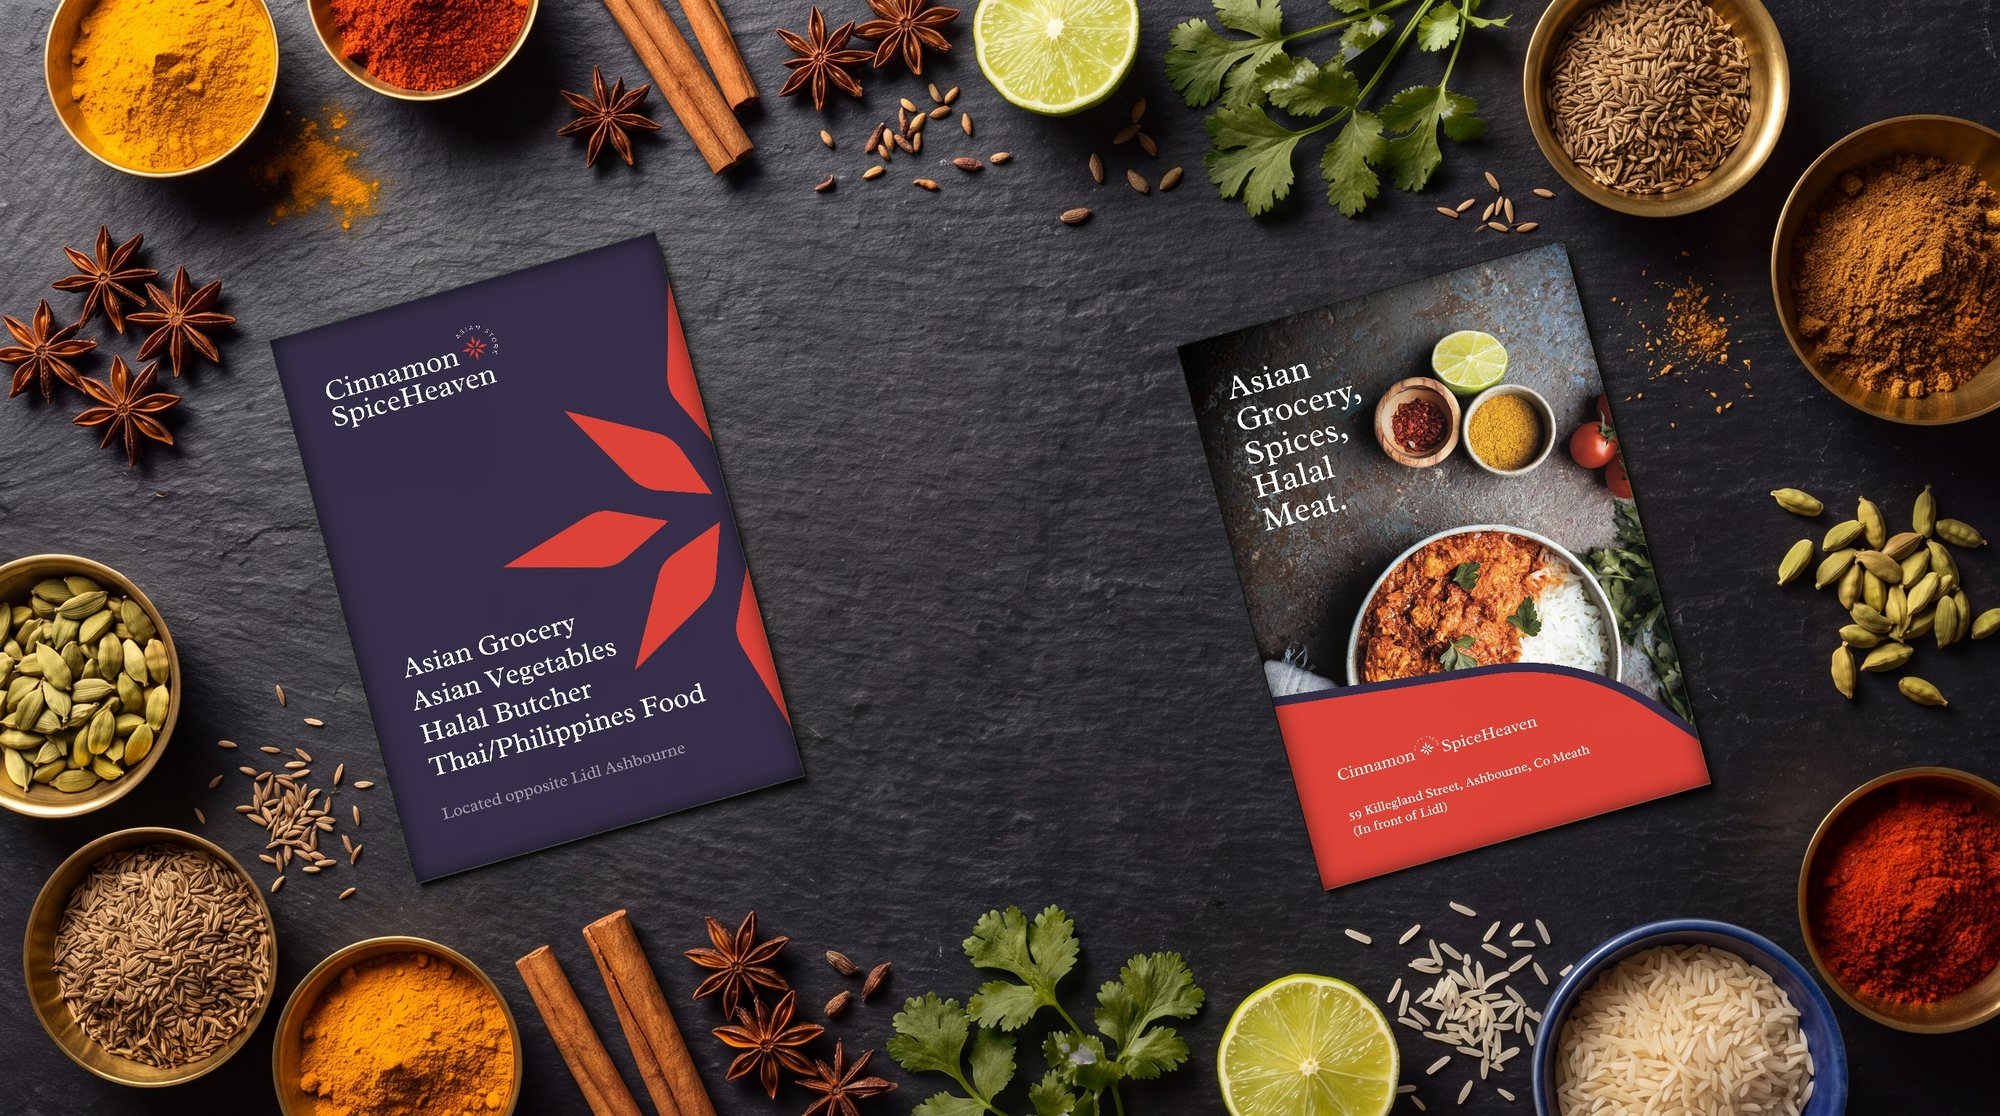
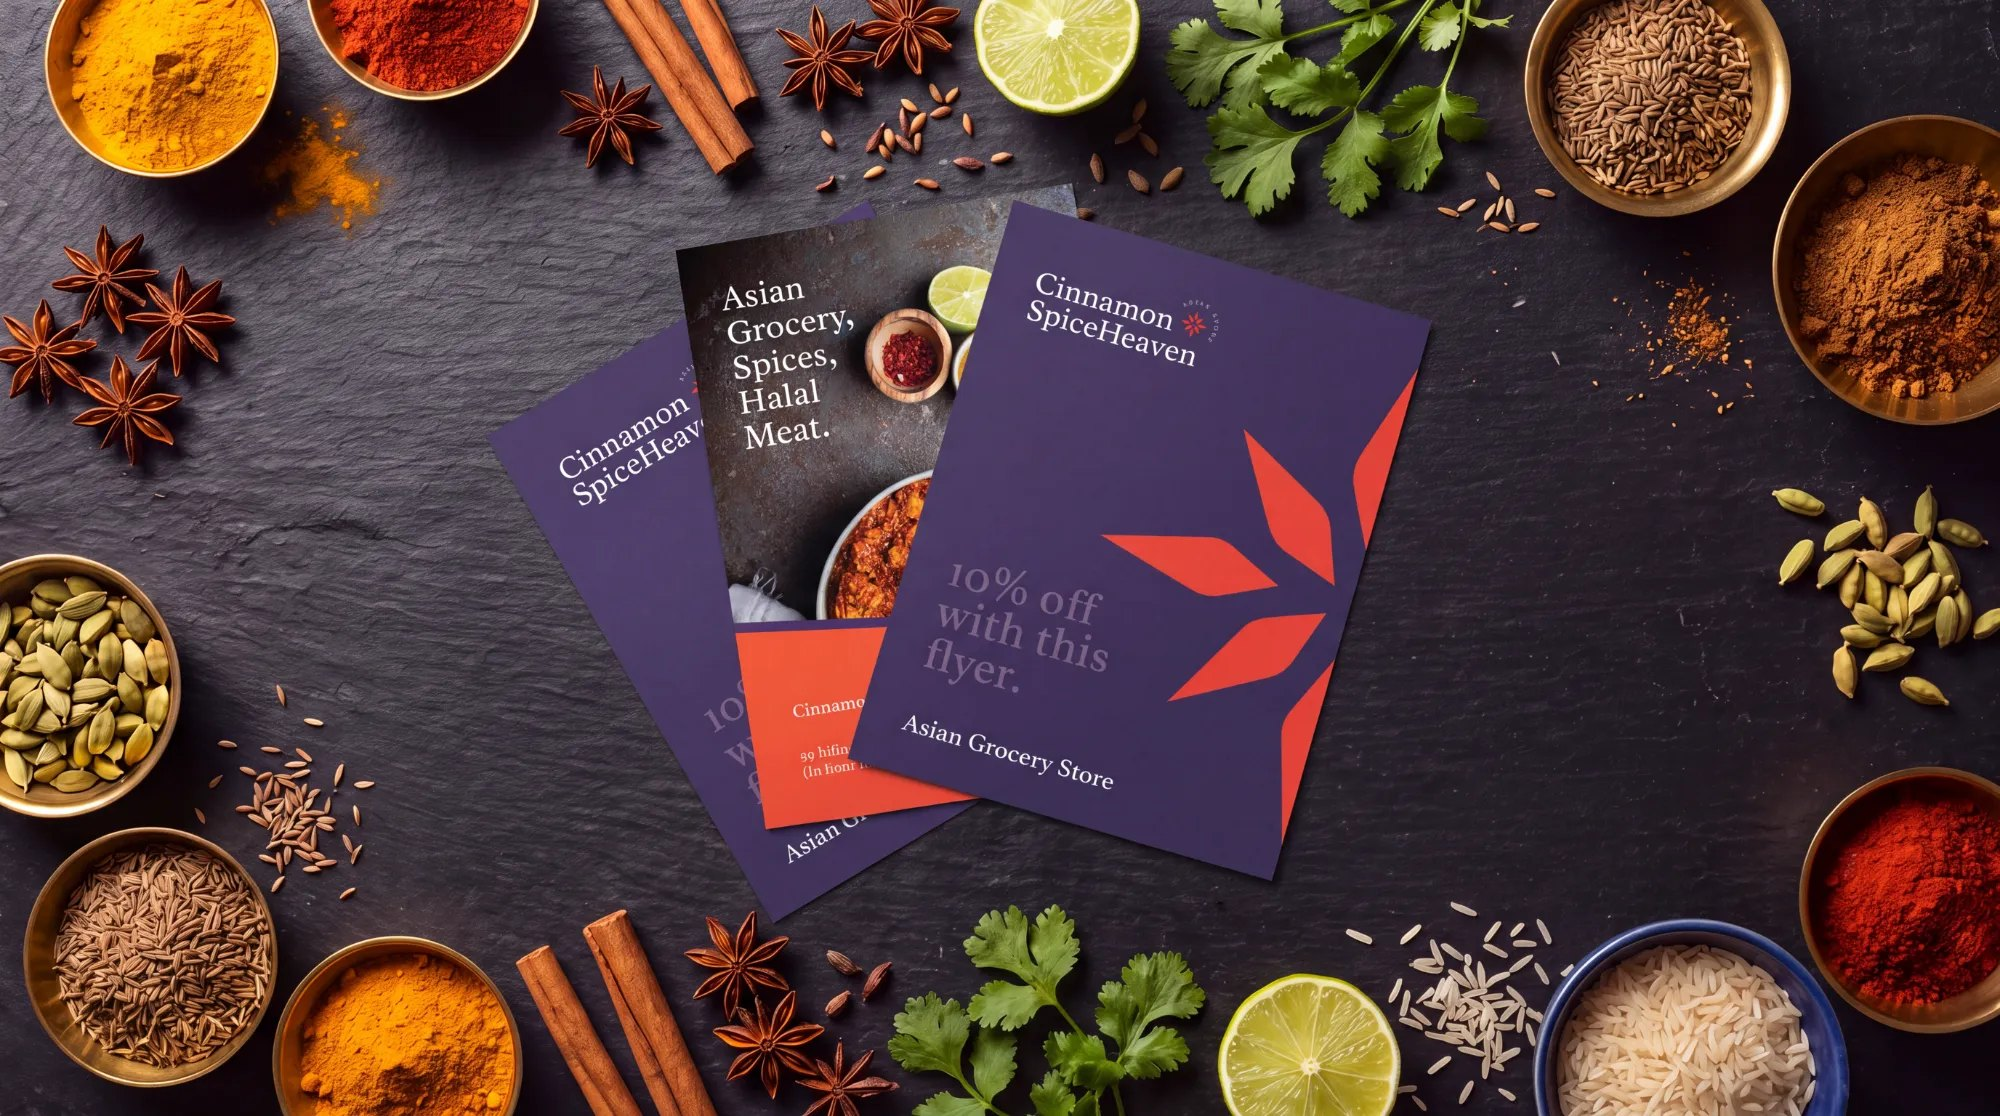
Cinnamon Spice Heaven: new flyers image

diff --git a/src/data/projects.js b/src/data/projects.js
@@ -1404,7 +1404,7 @@ export const projects = [
         type: "media",
         kind: "image",
         src: csh("csh-flyers.jpg"),
-        caption: "Flyers, front and back.",
+        caption: "Opening flyers.",
       },
       {
         type: "text",
